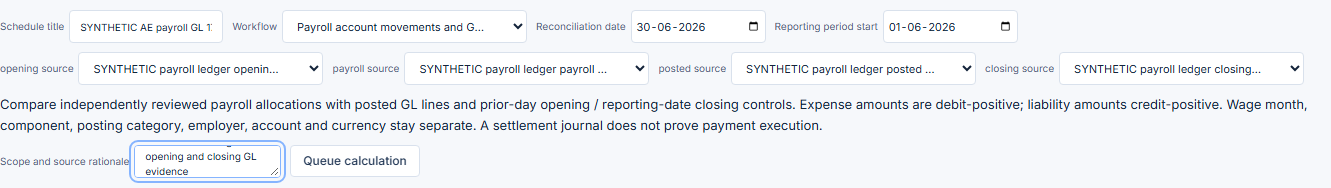
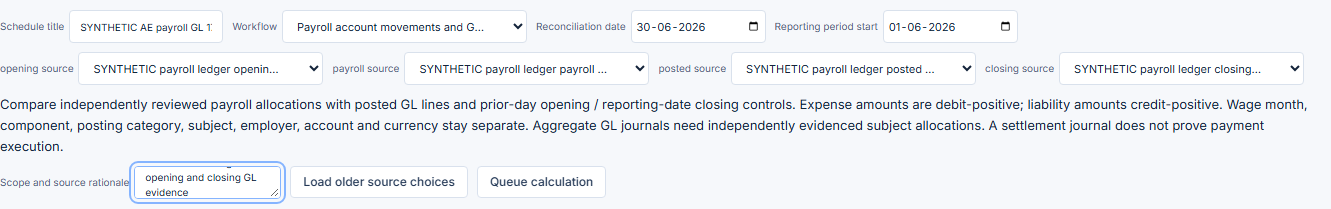
Prevent cross-subject payroll GL allocations from clearing

diff --git a/frontend/src/features/country-workflows.tsx b/frontend/src/features/country-workflows.tsx
@@ -795,6 +795,7 @@ export function CountryWorkflows({
             : [
                 "account",
                 "wage_month",
+                "subject",
                 "component",
                 "category",
                 "currency",
@@ -3278,8 +3279,10 @@ export function CountryWorkflows({
                   GL lines and prior-day opening / reporting-date closing
                   controls. Expense amounts are debit-positive; liability
                   amounts credit-positive. Wage month, component, posting
-                  category, employer, account and currency stay separate. A
-                  settlement journal does not prove payment execution.
+                  category, subject, employer, account and currency stay
+                  separate. Aggregate GL journals need independently evidenced
+                  subject allocations. A settlement journal does not prove
+                  payment execution.
                 </p>
               )}
               {[

diff --git a/frontend/tests/country-workflows.test.tsx b/frontend/tests/country-workflows.test.tsx
@@ -2596,6 +2596,7 @@ describe("payroll accounting bridge", () => {
             id: "COMP",
             kind: "posting-comparison",
             account: "SALARY",
+            subject: "ASSESSED-EMPLOYEE",
             state: "MATCHED",
           },
         ],
@@ -2627,6 +2628,10 @@ describe("payroll accounting bridge", () => {
     fireEvent.change(screen.getByLabelText("Saved source or result"), {
       target: { value: "result" },
     });
+    fireEvent.change(screen.getByLabelText("Payroll accounting view"), {
+      target: { value: "postings" },
+    });
+    expect(screen.getByRole("cell", { name: "ASSESSED-EMPLOYEE" })).toBeVisible();
     fireEvent.click(screen.getByText(/Payroll posting source links/));
     fireEvent.click(screen.getByRole("button", { name: "Next posting links" }));
     expect(screen.getByRole("cell", { name: "PAY-100" })).toBeVisible();

diff --git a/frontend/e2e/country-workflows.spec.ts b/frontend/e2e/country-workflows.spec.ts
@@ -4677,6 +4677,9 @@ test("payroll accounts reconcile gross net deductions and employer contributions
     await expect(
       panel.getByRole("cell", { name: "EMPLOYEE_DEDUCTION", exact: true }),
     ).toBeVisible();
+    await expect(
+      panel.getByRole("cell", { name: "EMP-1", exact: true }),
+    ).toHaveCount(6);
     await saveScreenshot(
       `${shots}/${country.toLowerCase()}-payroll-ledger-direction-comparisons.png`,
       () => panel.locator("table").last().screenshot(),

diff --git a/backend/app/modules/country_workflows/payroll_ledger.py b/backend/app/modules/country_workflows/payroll_ledger.py
@@ -48,8 +48,8 @@ def reconcile(data, tables, country):
                 raise ValueError("Payroll posting is outside the declared accounting window")
             if country == "AE" and row["component"].upper().split(":")[0] in {"PF", "ESI", "PT", "TDS", "TCS"}:
                 raise ValueError("Indian domestic payroll components cannot be activated in a UAE ledger bridge")
-            bucket = key + (row["wage_month"], row["component"], row["category"])
-            identity = bucket + (row["subject"], row["reference"], row["posting_date"], Decimal(row["amount"]))
+            bucket = key + (row["wage_month"], row["component"], row["category"], row["subject"])
+            identity = bucket + (row["reference"], row["posting_date"], Decimal(row["amount"]))
             if identity in seen:
                 raise ValueError("Duplicate payroll accounting observation; resolve repeated source lines before reconciliation")
             seen.add(identity)
@@ -66,7 +66,7 @@ def reconcile(data, tables, country):
     buckets = sorted(movements["payroll"].keys() | movements["posted"].keys())
     bucket_ids = {bucket: f"payroll-posting:{index}" for index, bucket in enumerate(buckets, 1)}
     for link in links:
-        link["comparison_row_id"] = bucket_ids[tuple(link[field] for field in ("registration", "account", "currency", "wage_month", "component", "category"))]
+        link["comparison_row_id"] = bucket_ids[tuple(link[field] for field in ("registration", "account", "currency", "wage_month", "component", "category", "subject"))]
     rows, blocked = [], False
     net: dict[str, defaultdict[tuple[str, str, str], Decimal]] = {role: defaultdict(Decimal) for role in ("payroll", "posted")}
     for index, bucket in enumerate(buckets, 1):
@@ -83,6 +83,7 @@ def reconcile(data, tables, country):
             "id": f"payroll-posting:{index}", "kind": "posting-comparison",
             "registration": bucket[0], "account": bucket[1], "currency": bucket[2],
             "wage_month": bucket[3], "component": bucket[4], "category": bucket[5],
+            "subject": bucket[6],
             **{f"{role}_{direction}": str(group[direction]) if group else None for role, group in (("payroll", expected), ("posted", posted)) for direction in ("positive", "negative")},
             "positive_difference": str(differences["positive"]), "negative_difference": str(differences["negative"]),
             "payroll_entry_count": expected["count"] if expected else 0, "posted_entry_count": posted["count"] if posted else 0,
@@ -115,7 +116,8 @@ def reconcile(data, tables, country):
             "Accrual, settlement and adjustment categories and wage-month attribution are assessed source inputs, not inferred from the GL",
             "Settlement journal postings do not prove bank execution; use the separate payroll/channel/bank or explicit obligation allocation workflow",
             "Registers, legal wage and tax calculations, pension eligibility, complete balanced journals and statutory filing remain separate procedures",
-            "No currency, employer registration, wage month, component or posting category is netted against another partition",
+            "No currency, employer registration, wage month, component, posting category or assessed subject is netted against another partition",
+            "Subject identity is an assessed source input; aggregate journals require independently evidenced allocation to comparable subjects before matching",
         ]),
         "payroll_posting_links": links,
         "payroll_ledger_scope": {"from": start.isoformat(), "through": data.as_of.isoformat(), "opening_date": opening_date.isoformat(), "normal_sign_basis": "EXPENSE_DEBIT_POSITIVE_LIABILITY_CREDIT_POSITIVE"},

diff --git a/backend/tests/qa_crud/test_payroll_ledger.py b/backend/tests/qa_crud/test_payroll_ledger.py
@@ -14,9 +14,9 @@ from tests.unit.test_payroll_ledger import population
 pytestmark = pytest.mark.skipif(os.getenv("INTEGRATION_TESTS") != "1", reason="Owned disposable DB required")
 
 
-async def prepare_sources(c, h, eid, currency, reviewer):
+async def prepare_sources(c, h, eid, currency, reviewer, populations=None):
     selected, originals = {}, {}
-    for role, rows in population(currency).items():
+    for role, rows in (populations or population(currency)).items():
         imported = await source(c, h, eid, rows, "SYNTHETIC payroll ledger " + role,
             table_type="payroll-account-balances" if role in {"opening", "closing"} else "payroll-ledger-lines",
             totals={currency: str(sum((Decimal(row["amount"]) for row in rows), Decimal(0)))})
@@ -77,3 +77,39 @@ async def test_controlled_payroll_accounting_review_export_paging_and_withdrawal
     cover = dict(stale_book["Source and review"].values)
     assert cover["Source freshness at export"] == "STALE"
     assert cover["Export status"] == "STALE_HISTORICAL_RESULT_REQUIRES_RECALCULATION"
+
+
+@pytest.mark.parametrize("country,currency", [("AE", "AED"), ("IN", "INR")])
+async def test_subject_substitution_survives_review_paging_and_export(environment, monkeypatch, country, currency):
+    c = environment
+    double_boundaries(monkeypatch)
+    if country == "AE":
+        h, _, eid, base = await setup(c)
+    else:
+        h, eid, base = await india_context(c)
+    reviewer = await actor(h, "Firm Administrator", "subject-allocation-reviewer")
+    await grant(c, h, base, reviewer)
+    populations = population(currency)
+    populations["posted"][0]["subject"] = "WRONG-EMPLOYEE"
+    selected, _ = await prepare_sources(c, h, eid, currency, reviewer, populations)
+    result = await execute(c, h, eid, "country-workflow", {
+        "workflow": "payroll-ledger-rollforward", "source_ids": selected,
+        "period_start": "2026-06-01", "as_of": "2026-06-30",
+        "title": "SYNTHETIC employee substitution",
+        "rationale": "Independently retained payroll and GL have equal totals but different employee attribution",
+    })
+    rows = result["body"]["rows"]
+    assert result["body"]["exception_count"] == 2
+    assert all(row["state"] == "MATCHED" for row in rows if row["kind"] == "account-rollforward")
+    prefix = f"/api/v1/intelligence/engagements/{eid}/events/{result['id']}"
+    response = await c.get(prefix + "?payroll_view=postings&limit=100", headers=h)
+    assert response.status_code == 200, response.text
+    comparisons = response.json()["body"]["rows"]
+    exceptions = {row["subject"]: row["state"] for row in comparisons if row["state"] != "MATCHED"}
+    assert exceptions == {"EMP-1": "MISSING_GL_PAYROLL_MOVEMENT", "WRONG-EMPLOYEE": "UNEXPECTED_GL_PAYROLL_MOVEMENT"}
+    exported = await c.get(prefix + "/export?format=xlsx", headers=h)
+    assert exported.status_code == 200, exported.text
+    book = load_workbook(io.BytesIO(exported.content))
+    # Full result rows and original source links both retain the misallocation.
+    values = [value for sheet in book for row in sheet.values for value in row]
+    assert "WRONG-EMPLOYEE" in values and "UNEXPECTED_GL_PAYROLL_MOVEMENT" in values

diff --git a/backend/tests/unit/test_payroll_ledger.py b/backend/tests/unit/test_payroll_ledger.py
@@ -57,13 +57,41 @@ def test_offsetting_extra_postings_cannot_hide_behind_equal_net_or_closing_balan
     assert all(row["state"] == "MATCHED" for row in result["rows"] if row["kind"] == "account-rollforward")
 
 
-@pytest.mark.parametrize("field,value", [("wage_month", "2026-05"), ("component", "SALARY:OTHER"), ("category", "adjustment"), ("registration", "OTHER-EMPLOYER"), ("currency", "USD"), ("account", "OTHER-ACCOUNT")])
+@pytest.mark.parametrize("field,value", [("wage_month", "2026-05"), ("component", "SALARY:OTHER"), ("category", "adjustment"), ("registration", "OTHER-EMPLOYER"), ("currency", "USD"), ("account", "OTHER-ACCOUNT"), ("subject", "OTHER-EMPLOYEE")])
 def test_partition_changes_never_clear_other_payroll_buckets(field, value):
     p = population()
     p["posted"][0][field] = value
     result = run(p)
     assert any(row["state"] == "MISSING_GL_PAYROLL_MOVEMENT" for row in result["rows"])
     assert any(row["state"] == "UNEXPECTED_GL_PAYROLL_MOVEMENT" for row in result["rows"])
+
+
+@pytest.mark.parametrize("country,currency", [("AE", "AED"), ("IN", "INR")])
+def test_equal_account_totals_cannot_clear_misallocated_employee_amounts(country, currency):
+    p = population(currency)
+    for role in ("payroll", "posted"):
+        original = p[role][0]
+        original["amount"] = "600" if role == "payroll" else "400"
+        p[role].append({**original, "id": role + "-EMP2", "subject": "EMP-2",
+                        "amount": "400" if role == "payroll" else "600"})
+    result = run(p, country)
+    comparisons = [row for row in result["rows"] if row["kind"] == "posting-comparison" and row["account"] == "SALARY-EXP"]
+    assert {row["subject"]: row["positive_difference"] for row in comparisons} == {"EMP-1": "-200", "EMP-2": "200"}
+    assert all(row["state"] == "DIRECTIONAL_POSTING_VARIANCE" for row in comparisons)
+    assert all(row["state"] == "MATCHED" for row in result["rows"] if row["kind"] == "account-rollforward")
+    by_id = {row["id"]: row for row in result["rows"]}
+    assert all(by_id[link["comparison_row_id"]]["subject"] == link["subject"] for link in result["payroll_posting_links"])
+
+
+@pytest.mark.parametrize("country,currency", [("AE", "AED"), ("IN", "INR")])
+def test_same_subject_split_journal_lines_match_without_requiring_equal_references(country, currency):
+    p = population(currency)
+    p["posted"][0]["amount"] = "400"
+    p["posted"].append({**p["posted"][0], "id": "SPLIT-GL", "reference": "SYN-OTHER-JOURNAL", "amount": "600"})
+    result = run(p, country)
+    assert result["exception_count"] == 0
+    row = next(row for row in result["rows"] if row["kind"] == "posting-comparison" and row["account"] == "SALARY-EXP")
+    assert row["subject"] == "EMP-1" and row["posted_entry_count"] == 2 and row["payroll_entry_count"] == 1
 
 
 @pytest.mark.parametrize("role,field,value,error", [

diff --git a/docs/country-workflows/native-adapters.md b/docs/country-workflows/native-adapters.md
@@ -1047,7 +1047,11 @@ Balance fields are row ID, employer registration, account, `account_class` (`exp
 
 Movement rows add `posting_date`, `wage_month`, `component`, `category` (`accrual`, `settlement` or `adjustment`), subject, original journal/reference and an allocation assessment. Nonzero signed amounts follow the account's normal sign. Wage month cannot start after posting date; historical months remain separate for assessed arrears. All postings must fall within the accounting window. Distinct original line IDs do not excuse duplicated identical accounting observations. Explicit nil movement files require the existing nil rationale. The workflow does not derive account mapping, gross/net allocation, wage month, eligibility, rates or deductions from the GL.
 
-Comparison groups preserve employer, account, currency, wage month, component and posting category. Positive and negative amounts are checked separately: equal opposing extra postings cannot disappear behind a correct net or closing balance. Every supplied account also gets two independent checks: opening plus expected payroll movements versus actual closing, and opening plus posted GL movements versus actual closing. Gross salary, net pay, employee deductions and employer contribution expense/payable can therefore be reviewed separately. Indian domestic PF/ESI/PT/TDS/TCS components are not activated by a UAE engagement. Applicable country rule calculations remain in their separate reviewed workflows.
+Comparison groups preserve employer, account, currency, wage month, component, posting category and assessed subject. Positive and negative amounts are checked separately: equal opposing extra postings cannot disappear behind a correct net or closing balance. Every supplied account also gets two independent checks: opening plus expected payroll movements versus actual closing, and opening plus posted GL movements versus actual closing. Gross salary, net pay, employee deductions and employer contribution expense/payable can therefore be reviewed separately. Indian domestic PF/ESI/PT/TDS/TCS components are not activated by a UAE engagement. Applicable country rule calculations remain in their separate reviewed workflows.
+
+Subject comparisons also prevent equal account totals from concealing postings to the wrong employee or offsetting under/overallocations between employees. Expected and posted rows use the same independently assessed subject identity. Multiple original journal lines for that subject may match one expected allocation; original journal references, posting dates and line IDs remain in the source links. An aggregate GL journal must first have independently evidenced allocations to comparable subjects. The software does not infer employees from equal amounts or assert that an assessed identifier is an authenticated employee identity. Account rollforwards remain separate aggregate controls, so they can agree while subject comparisons report exceptions.
+
+The subject-isolation increment was checked through 1,763 backend unit tests (four skipped), four UAE/India payroll HTTP tests, all 178 frontend tests and the UAE-then-India payroll browser flow. Unit cases include employee substitution, equal-total cross-employee allocation variances, legitimate split journals and the existing 5,000-line-per-source bound. HTTP cases prepare independently reviewed sources, preserve subject exceptions in paginated results and XLSX, and retain source-withdrawal staleness. The browser receipt is `../phase-12/payroll-subject-browser-results.json`; refreshed posting screenshots show the subject column. Production build, scoped Ruff/mypy/ESLint, typecheck and UTF-8 checks pass. These remain synthetic controls, not employee authentication or independently qualified client results.
 
 Use **Payroll accounting view** to switch independently paginated account balances and posting comparisons. Expand **Payroll posting source links** for separately paginated individual source lines. Each link retains role, source event and row IDs, comparison group, wage month, subject, posting date, component, category, amount, journal reference and evidence reference. XLSX has a complete **Payroll posting links** sheet with one link per row; no unbounded list is placed in a single Excel cell. The source bound is 5,000 rows per input, including up to 10,000 movement links across expected and posted sources.
 

diff --git a/docs/country-workflows/README.md b/docs/country-workflows/README.md
@@ -88,3 +88,5 @@ XLSX exports now preserve oversized source/control values in ordered continuatio
 
 
 Statutory reporting-pack exports now share the same complete-text storage and expose export-time freshness separately from draft/review status in XLSX, PDF and DOCX. See [statutory export scope and evidence](native-adapters.md#complete-statutory-reporting-pack-exports--uae-then-india); country legal-form qualification remains open.
+
+The UAE/India payroll GL bridge now compares assessed subjects separately. Equal account totals cannot clear employee substitutions or offsetting employee allocation errors. Split journal lines for the same subject remain supported; aggregate journals require independently evidenced subject allocation. The posting view, source links and XLSX retain the subject. See [payroll accounting controls and limits](native-adapters.md#payroll-accounting-allocations-to-gl-balances) for the source contract.
